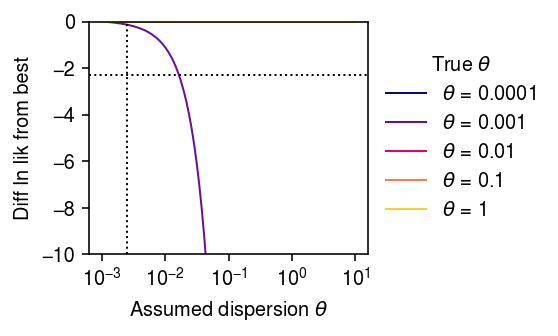
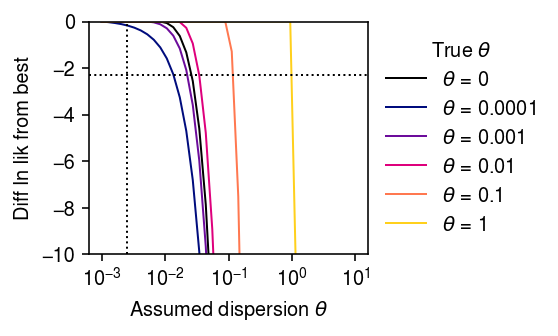
Apply moment matching approximation to control data

diff --git a/docs/ebnbm.html b/docs/ebnbm.html
@@ -1,7 +1,7 @@
 <!DOCTYPE html>
 <html lang="en">
 <head>
-<!-- 2020-09-08 Tue 15:30 -->
+<!-- 2020-09-10 Thu 11:29 -->
 <meta charset="utf-8">
 <meta name="viewport" content="width=device-width, initial-scale=1">
 <title>Negative binomial measurement model</title>
@@ -1047,21 +1047,18 @@ fit the model using the Nelder-Mead algorithm.
 </p>
 
 <div class="org-src-container">
-<pre class="src src-ipython">np.random.seed(1)
-<span class="org-variable-name">s</span> = 1e5
-<span class="org-variable-name">n</span> = 1000
-
-<span class="org-variable-name">log_mu</span> = -10
-<span class="org-variable-name">log_phi</span> = -6
-<span class="org-variable-name">lam</span> = st.gamma(a=np.exp(-log_phi), scale=np.exp(log_mu + log_phi)).rvs(n)
-</pre>
-</div>
-
-<div class="org-src-container">
 <pre class="src src-ipython"><span class="org-keyword">def</span> <span class="org-function-name">_loss</span>(par, x, s, theta0):
   <span class="org-variable-name">mu</span>, <span class="org-variable-name">phi</span> = np.exp(par)
   <span class="org-variable-name">theta</span> = phi + theta0 + phi * theta0
   <span class="org-keyword">return</span> -st.nbinom(n=1 / theta, p=1 / (1 + s * mu * theta)).logpmf(x).mean()
+
+np.random.seed(1)
+<span class="org-variable-name">s</span> = 1e5
+<span class="org-variable-name">n</span> = 100
+
+<span class="org-variable-name">log_mu</span> = -10
+<span class="org-variable-name">log_phi</span> = -6
+<span class="org-variable-name">lam</span> = st.gamma(a=np.exp(-log_phi), scale=np.exp(log_mu + log_phi)).rvs(n)
 
 <span class="org-variable-name">fits</span> = <span class="org-builtin">dict</span>()
 <span class="org-variable-name">grid</span> = np.logspace(-3, 1, 100)
@@ -1106,32 +1103,44 @@ Now, fit the model in stages:
 </p>
 
 <ol class="org-ol">
-<li>Fit the NB model via unconstrained optimization, yielding MLE (\hat&mu;,
-\hat{d})</li>
+<li>Fit the NB model via unconstrained optimization, yielding MLE \(\hat\mu,
+      \hat{d}\)</li>
 <li>If \(\hat\phi = (\hat{d} - \theta) / (1 + \theta) < 0\), then fit the NB
 model, fixing dispersion \(\theta\).</li>
 </ol>
 
 <div class="org-src-container">
-<pre class="src src-ipython"><span class="org-keyword">def</span> <span class="org-function-name">_fit_one</span>(x, s, theta):
-  <span class="org-variable-name">fit</span> = scmodes.ebpm.wrappers.ebpm_gamma(x, s, tol=1e-7)
+<pre class="src src-ipython"><span class="org-keyword">def</span> <span class="org-function-name">_fit_one</span>(x, s, theta, tol=1e-7):
+  <span class="org-variable-name">fit</span> = scmodes.ebpm.wrappers.ebpm_gamma(x, s, tol=tol)
   <span class="org-keyword">if</span> (np.exp(-fit[1]) - theta) / (1 + theta) &lt; 0:
-    <span class="org-variable-name">fit</span> = scmodes.ebpm.wrappers.ebpm_gamma(x, s, a=1 / theta, tol=1e-7)
+    <span class="org-variable-name">fit</span> = scmodes.ebpm.wrappers.ebpm_gamma(x, s, a=1 / theta, tol=tol)
   <span class="org-keyword">return</span> fit
 
+<span class="org-keyword">def</span> <span class="org-function-name">_fit</span>(x, s, grid):
+  <span class="org-keyword">return</span> np.array([_fit_one(x, s, theta) <span class="org-keyword">for</span> theta <span class="org-keyword">in</span> grid])
+
+<span class="org-variable-name">s</span> = 1e5
+<span class="org-variable-name">n</span> = 1600
+<span class="org-variable-name">log_mu</span> = -10
+<span class="org-variable-name">log_phi</span> = -6
+
+np.random.seed(9)
+<span class="org-variable-name">lam</span> = st.gamma(a=np.exp(-log_phi), scale=np.exp(log_mu + log_phi)).rvs(n)
+<span class="org-variable-name">x</span> = st.poisson(s * lam).rvs(n)
+
 <span class="org-variable-name">fits</span> = <span class="org-builtin">dict</span>()
-<span class="org-variable-name">grid</span> = np.logspace(-3, 1, 100)
-<span class="org-keyword">for</span> theta0 <span class="org-keyword">in</span> np.logspace(-4, 0, 5):
+<span class="org-variable-name">grid</span> = np.logspace(-3, 1, 40)
+
+<span class="org-keyword">print</span>(f<span class="org-string">'fitting theta0 = 0'</span>)
+<span class="org-variable-name">fits</span>[0] = _fit(x, s, grid)
+<span class="org-keyword">for</span> i, theta0 <span class="org-keyword">in</span> <span class="org-builtin">enumerate</span>(np.logspace(-4, 0, 5)):
   <span class="org-keyword">print</span>(f<span class="org-string">'fitting theta0 = {theta0:.1g}'</span>)
+  np.random.seed(i)
   <span class="org-variable-name">u</span> = st.gamma(a=1 / theta0, scale=theta0).rvs(n)
   <span class="org-variable-name">x</span> = st.poisson(s * lam * u).rvs(n)
-  <span class="org-variable-name">fits</span>[theta0] = [_fit_one(x, s, theta) <span class="org-keyword">for</span> theta <span class="org-keyword">in</span> grid]
+  <span class="org-variable-name">fits</span>[theta0] = _fit(x, s, grid)
 </pre>
 </div>
-
-<p>
-0 - bfe3756f-6624-4acf-b616-76446cb7e243
-</p>
 
 <div class="org-src-container">
 <pre class="src src-ipython"><span class="org-variable-name">cm</span> = colorcet.cm[<span class="org-string">'bmy'</span>]
@@ -1139,10 +1148,12 @@ plt.clf()
 plt.gcf().set_size_inches(4, 2.5)
 plt.xscale(<span class="org-string">'log'</span>)
 <span class="org-keyword">for</span> i, k <span class="org-keyword">in</span> <span class="org-builtin">enumerate</span>(fits):
-  <span class="org-variable-name">temp</span> = np.array([f[-1] <span class="org-keyword">for</span> f <span class="org-keyword">in</span> fits[k]])
-  <span class="org-variable-name">temp</span> -= temp.<span class="org-builtin">max</span>()
-  <span class="org-variable-name">c</span> = (np.log(k) - np.log(1e-4)) / (1 - np.log(1e-4))
-  plt.plot(grid, temp, lw=1, c=cm(c), label=rf<span class="org-string">'$\theta$ = {k:.1g}'</span>)
+  <span class="org-variable-name">temp</span> = fits[k][:,-1] - fits[k][:,-1].<span class="org-builtin">max</span>()
+  <span class="org-keyword">if</span> k &gt; 0:
+    <span class="org-variable-name">c</span> = cm((np.log(k) - np.log(1e-4)) / (1 - np.log(1e-4)))
+  <span class="org-keyword">else</span>:
+    <span class="org-variable-name">c</span> = <span class="org-string">'k'</span>
+  plt.plot(grid, temp, lw=1, c=c, label=rf<span class="org-string">'$\theta$ = {k:.1g}'</span>)
 plt.axvline(x=np.exp(log_phi), lw=1, ls=<span class="org-string">':'</span>, c=<span class="org-string">'k'</span>)
 plt.axhline(y=-np.log(10), lw=1, ls=<span class="org-string">':'</span>, c=<span class="org-string">'k'</span>)
 plt.legend(title=r<span class="org-string">'True $\theta$'</span>, frameon=<span class="org-constant">False</span>, loc=<span class="org-string">'center left'</span>, bbox_to_anchor=(1, .5))
@@ -1261,59 +1272,116 @@ Fit the heuristic to each data set.
 </p>
 
 <div class="org-src-container">
-<pre class="src src-ipython" id="orgfae5bc5"><span class="org-keyword">def</span> <span class="org-function-name">_loss</span>(par, x, s, theta0):
-  <span class="org-variable-name">mu</span>, <span class="org-variable-name">phi</span> = np.exp(par)
-  <span class="org-variable-name">theta</span> = phi + theta0 + phi * theta0
-  <span class="org-keyword">return</span> -st.nbinom(n=1 / theta, p=1 / (1 + s * mu * theta)).logpmf(x).mean()
-
-<span class="org-keyword">def</span> <span class="org-function-name">_fit_one</span>(x, s, theta0):
-  <span class="org-variable-name">fit</span> = so.minimize(
-    _loss,
-    x0=[np.log(x.<span class="org-builtin">sum</span>()) - np.log(s.<span class="org-builtin">sum</span>()), 0],
-    args=(x, s, theta0),
-    method=<span class="org-string">'Nelder-Mead'</span>,
-    options={<span class="org-string">'maxiter'</span>: 30_000})
-  <span class="org-keyword">assert</span> fit.success
-  <span class="org-keyword">return</span> np.hstack([fit.x, x.shape[0] * fit.fun])
-
-<span class="org-keyword">def</span> <span class="org-function-name">_fit</span>(theta0, x, s):
-  <span class="org-keyword">return</span> np.vstack([_fit_one(x[:,j], s, theta0) <span class="org-keyword">for</span> j <span class="org-keyword">in</span> <span class="org-builtin">range</span>(x.shape[1])])
+<pre class="src src-ipython" id="orgfae5bc5"><span class="org-keyword">def</span> <span class="org-function-name">_fit_one</span>(x, s, theta, tol=1e-7):
+  <span class="org-variable-name">fit</span> = scmodes.ebpm.wrappers.ebpm_gamma(x, s, tol=tol)
+  <span class="org-keyword">if</span> (np.exp(-fit[1]) - theta) / (1 + theta) &lt; 0:
+    <span class="org-variable-name">fit</span> = scmodes.ebpm.wrappers.ebpm_gamma(x, s, a=1 / theta, tol=tol)
+  <span class="org-keyword">return</span> fit
 
 <span class="org-variable-name">tasks</span> = control
 <span class="org-variable-name">d</span> = tasks[<span class="org-builtin">int</span>(os.environ[<span class="org-string">'SLURM_ARRAY_TASK_ID'</span>])]
 <span class="org-keyword">with</span> mp.Pool() <span class="org-keyword">as</span> pool:
   <span class="org-variable-name">dat</span> = data[d]()
   <span class="org-variable-name">x</span> = dat.X.A
-  <span class="org-variable-name">s</span> = x.<span class="org-builtin">sum</span>(axis=1, keepdims=<span class="org-constant">True</span>)
-  <span class="org-variable-name">grid</span> = np.logspace(-3, 1, 20)
-  <span class="org-variable-name">fits</span> = pool.<span class="org-builtin">map</span>(ft.partial(_fit, x=x, s=s), grid)
+  <span class="org-variable-name">s</span> = x.<span class="org-builtin">sum</span>(axis=1)
+  <span class="org-variable-name">fits</span> = []
+  <span class="org-keyword">for</span> theta <span class="org-keyword">in</span> np.logspace(-3, -2, 100):
+    <span class="org-variable-name">_fit</span> = ft.partial(_fit_one, s=s, theta=theta)
+    fits.append(pool.<span class="org-builtin">map</span>(_fit, x.T))
   <span class="org-variable-name">fits</span> = np.stack(fits)
   np.save(f<span class="org-string">'/scratch/midway2/aksarkar/modes/ebnbm/nb-heuristic-{d}.npy'</span>, fits)
 </pre>
 </div>
 
 <div class="org-src-container">
-<pre class="src src-sh">sbatch --partition=broadwl -n1 --exclusive -a 1-4
+<pre class="src src-sh">sbatch --partition=broadwl -n1 -c28 --exclusive -a 0-4
 <span class="org-comment-delimiter">#</span><span class="org-comment">!/bin/bash</span>
 <span class="org-builtin">source</span> activate scmodes
 python &lt;&lt;EOF
 <span class="org-sh-heredoc">&lt;&lt;imports&gt;&gt;</span>
 <span class="org-sh-heredoc">import multiprocessing as mp</span>
 <span class="org-sh-heredoc">import os</span>
-<span class="org-sh-heredoc">import scipy.optimize as so</span>
-<span class="org-sh-heredoc">import scipy.stats as st</span>
 <span class="org-sh-heredoc">&lt;&lt;data&gt;&gt;</span>
 <span class="org-sh-heredoc">&lt;&lt;fit-heuristic&gt;&gt;</span>
 <span class="org-sh-heredoc">EOF</span>
 </pre>
 </div>
+
+<p>
+Read the fitted models.
+</p>
+
+<div class="org-src-container">
+<pre class="src src-ipython"><span class="org-variable-name">fits</span> = <span class="org-builtin">dict</span>()
+<span class="org-keyword">for</span> k <span class="org-keyword">in</span> control:
+  <span class="org-variable-name">fits</span>[k] = np.load(f<span class="org-string">'/scratch/midway2/aksarkar/modes/ebnbm/nb-heuristic-{k}.npy'</span>)
+</pre>
+</div>
+
+<p>
+Plot the profile likelihood.
+</p>
+
+<div class="org-src-container">
+<pre class="src src-ipython"><span class="org-variable-name">labels</span> = [<span class="org-string">'Chromium (1)'</span>, <span class="org-string">'Chromium (2)'</span>, <span class="org-string">'Drop-Seq'</span>, <span class="org-string">'GemCode'</span>, <span class="org-string">'InDrops'</span>]
+<span class="org-variable-name">keys</span> = [<span class="org-string">'chromium1'</span>, <span class="org-string">'chromium2'</span>, <span class="org-string">'dropseq'</span>, <span class="org-string">'gemcode'</span>, <span class="org-string">'indrops'</span>]
+
+<span class="org-variable-name">cm</span> = plt.get_cmap(<span class="org-string">'Dark2'</span>)
+plt.clf()
+plt.gcf().set_size_inches(4, 2.5)
+plt.xscale(<span class="org-string">'log'</span>)
+<span class="org-variable-name">grid</span> = np.logspace(-3, -2, 100)
+<span class="org-keyword">for</span> i, (k, l) <span class="org-keyword">in</span> <span class="org-builtin">enumerate</span>(<span class="org-builtin">zip</span>(keys, labels)):
+  <span class="org-variable-name">temp</span> = fits[k][:,:,-1].<span class="org-builtin">sum</span>(axis=1)
+  <span class="org-variable-name">diff</span> = temp - temp.<span class="org-builtin">max</span>()
+  plt.plot(grid, diff, lw=1, label=l, c=cm(i))
+plt.ylim(-20, 0)
+plt.axhline(y=-np.log(10), lw=1, ls=<span class="org-string">':'</span>, c=<span class="org-string">'k'</span>)
+plt.legend(title=<span class="org-string">'Dataset'</span>, frameon=<span class="org-constant">False</span>, loc=<span class="org-string">'center left'</span>, bbox_to_anchor=(1, .5))
+plt.xlabel(r<span class="org-string">'Assumed dispersion'</span>)
+plt.ylabel(<span class="org-string">'Difference in ln likelihood\nfrom best'</span>)
+plt.tight_layout()
+</pre>
+</div>
+
+
+<div class="figure">
+<p><img src="figure/ebnbm.org/nb-heuristic-control.png" alt="nb-heuristic-control.png">
+</p>
+</div>
+
+<p>
+Report the smallest \(\theta\) for which the likelihood ratio is \(< 1/10\)
+compared to the best \(\theta\).
+</p>
+
+<div class="org-src-container">
+<pre class="src src-ipython"><span class="org-variable-name">thresh</span> = -np.log(10)
+<span class="org-variable-name">grid</span> = np.logspace(-3, -2, 100)
+<span class="org-variable-name">thetahat</span> = <span class="org-builtin">dict</span>()
+<span class="org-keyword">for</span> k <span class="org-keyword">in</span> keys:
+  <span class="org-variable-name">l</span> = fits[k][:,:,-1].<span class="org-builtin">sum</span>(axis=1)
+  <span class="org-variable-name">l</span> -= l.<span class="org-builtin">max</span>()
+  <span class="org-variable-name">thetahat</span>[k] = grid[np.where(l &lt; thresh)[0][0]]
+pd.Series(thetahat)
+</pre>
+</div>
+
+<pre class="example">
+chromium1    0.004863
+chromium2    0.002477
+dropseq      0.003199
+gemcode      0.001024
+indrops      0.001205
+dtype: float64
+</pre>
 </div>
 </div>
 </div>
 </div>
 <div id="postamble" class="status">
 <p class="author">Author: Abhishek Sarkar</p>
-<p class="date">Created: 2020-09-08 Tue 15:30</p>
+<p class="date">Created: 2020-09-10 Thu 11:29</p>
 <p class="validation"><a href="http://validator.w3.org/check?uri=referer">Validate</a></p>
 </div>
 </body>
